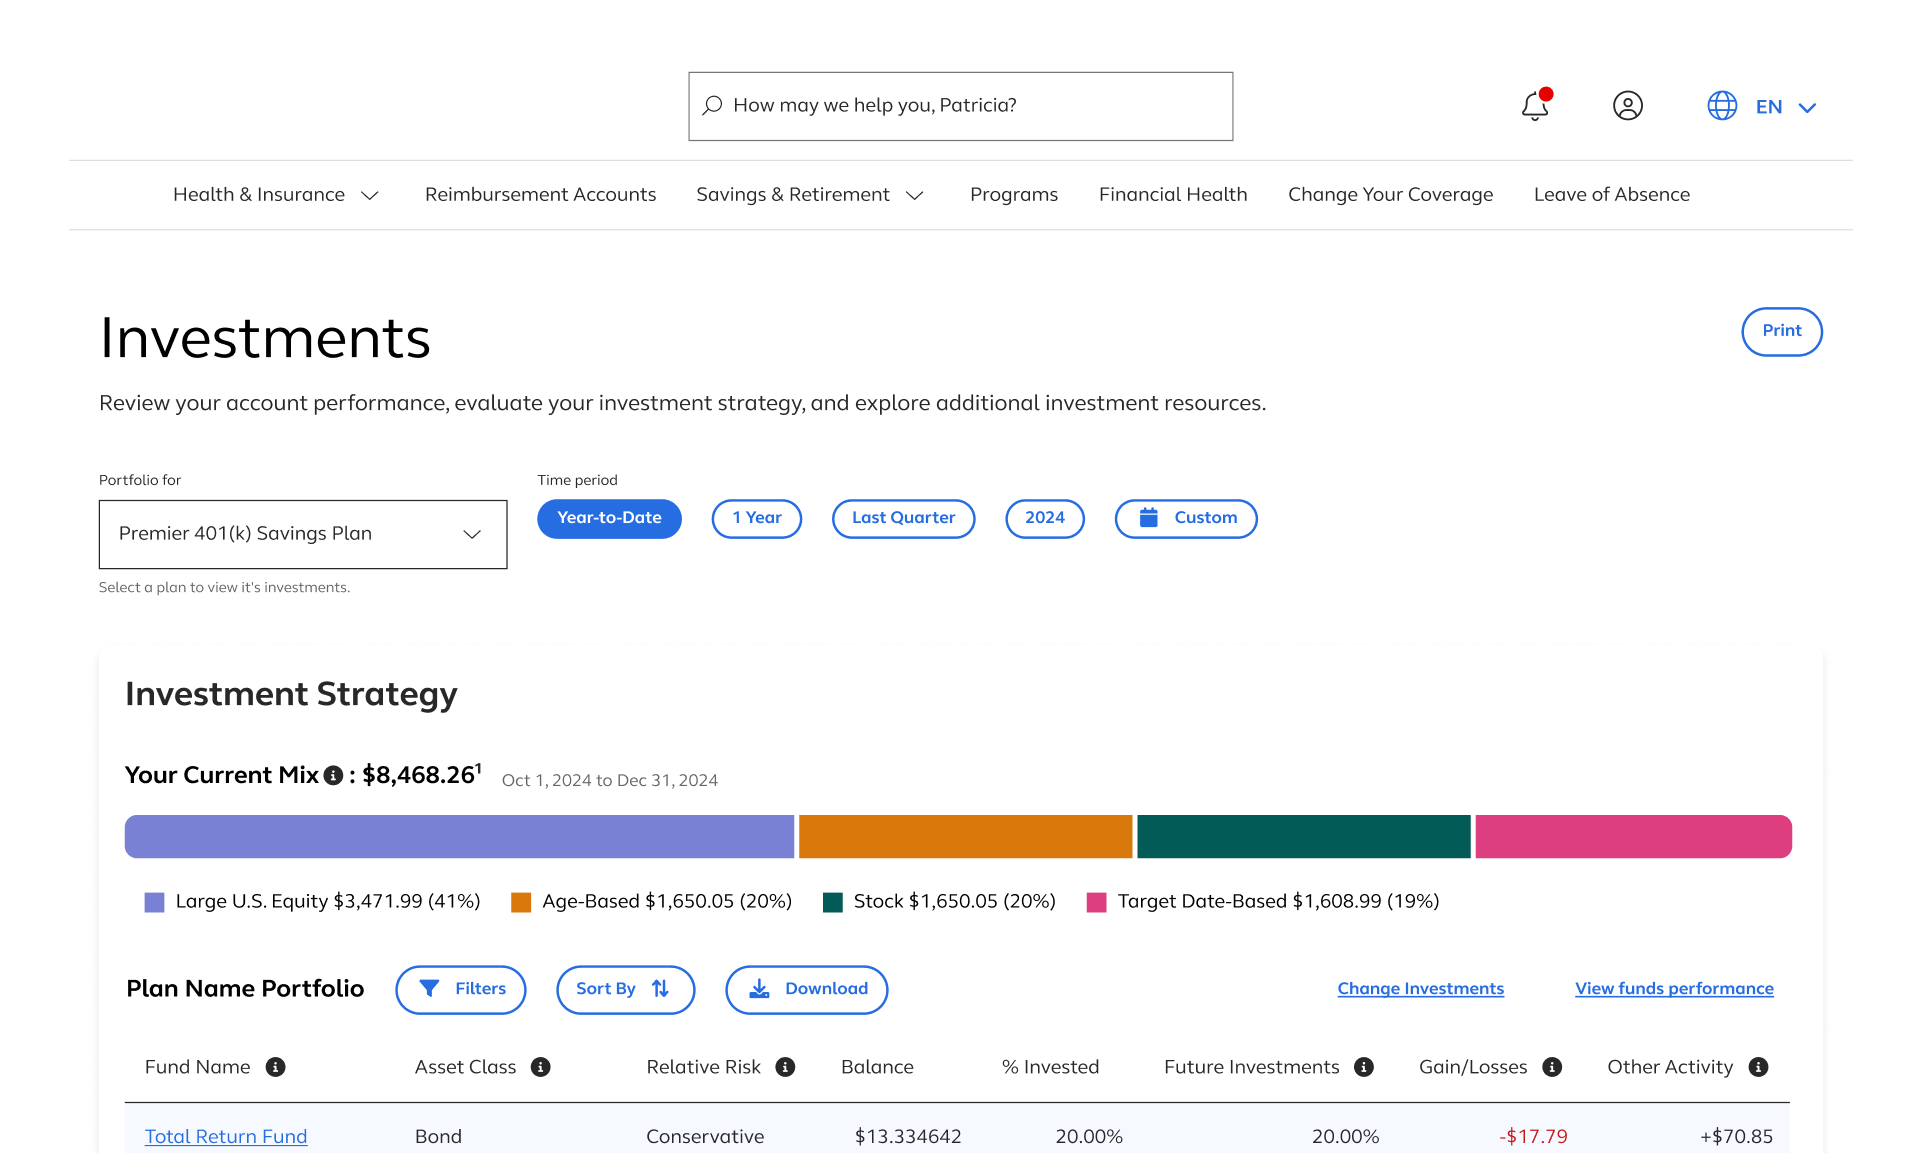
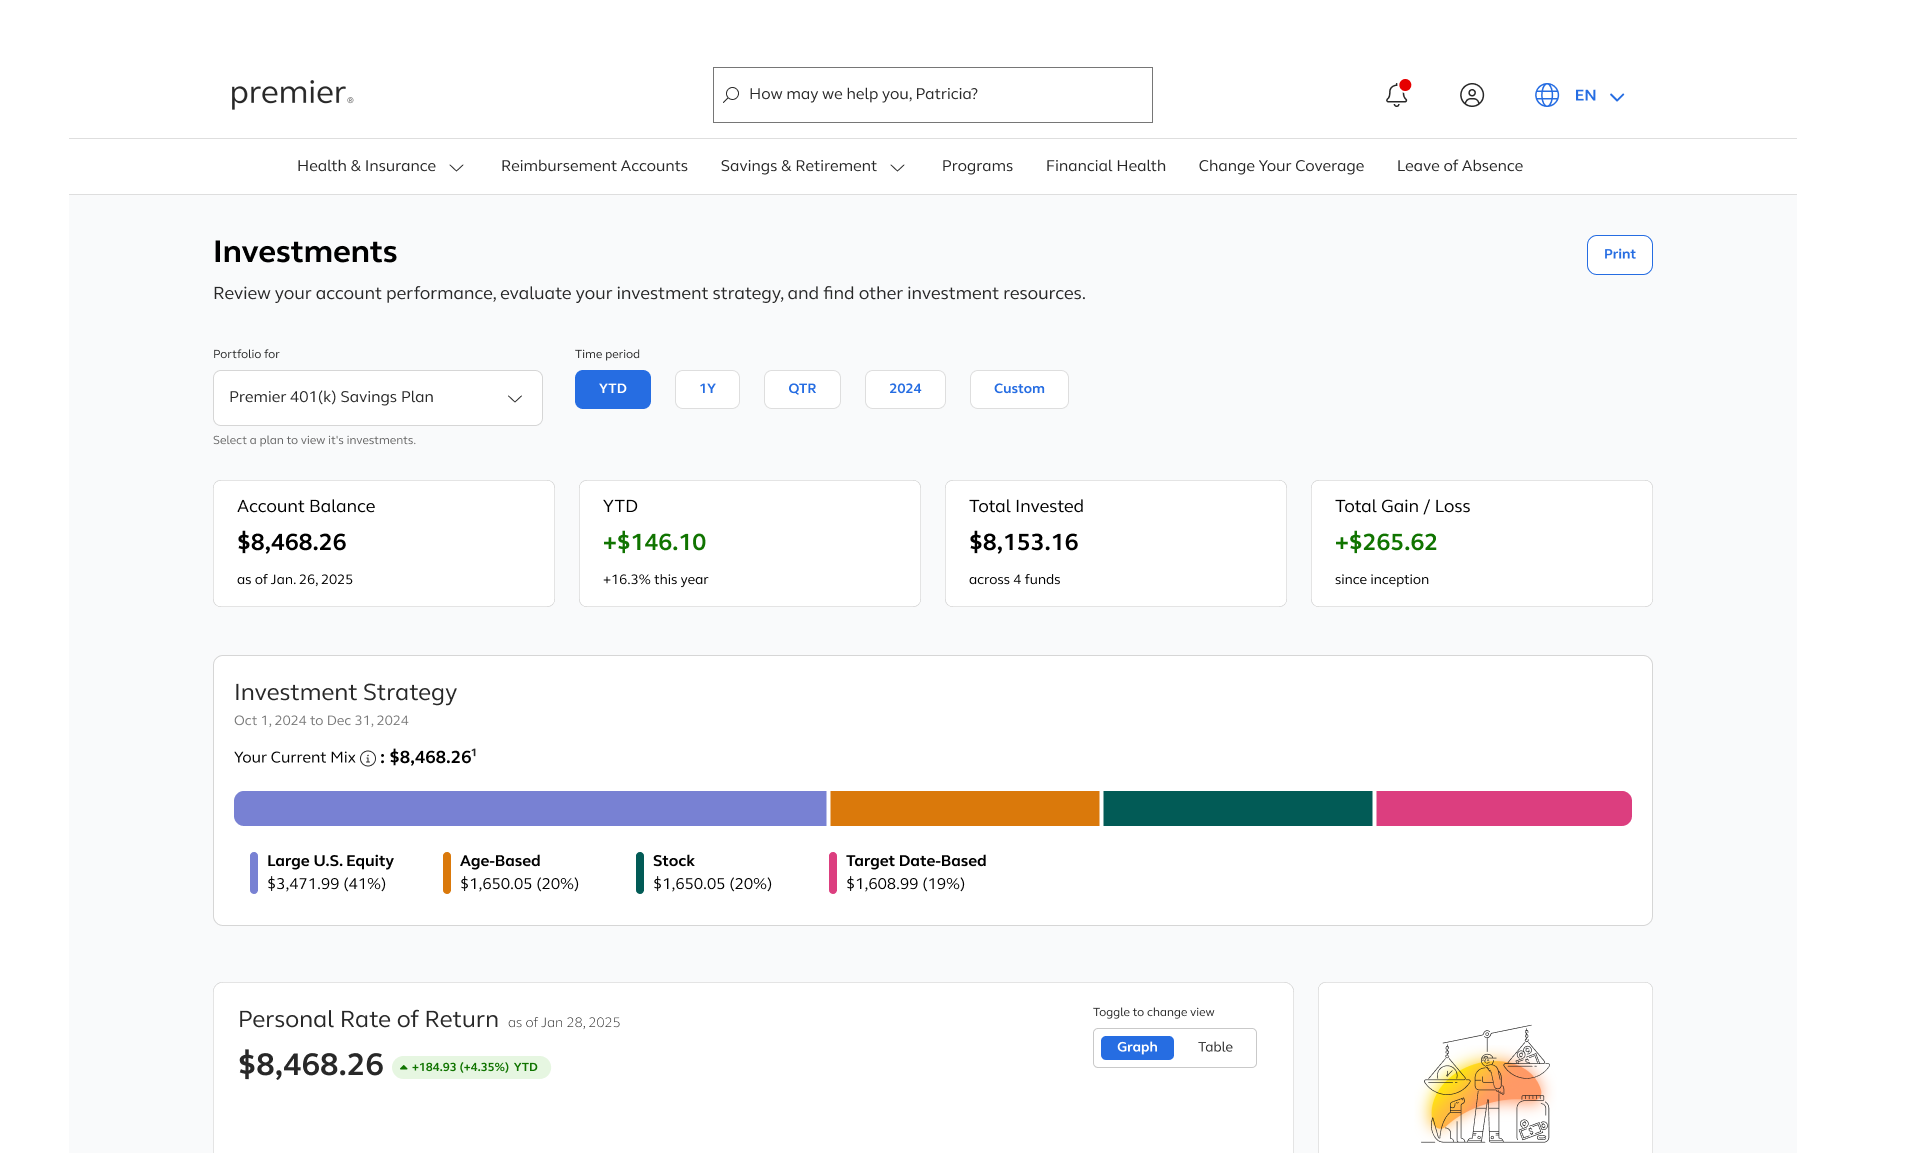
Updated images and link for Investments page

diff --git a/work/investments/index.html b/work/investments/index.html
@@ -303,7 +303,7 @@
                       <h3>demo</h3>
                     </div>
                     <div class="categoryctr-copy">
-                      <a href="https://www.figma.com/design/XkNRUQ1qYdk2ZSKJvot9N4/Investment-Landing-Pages-Dev-Handoff?node-id=20916-32283&t=rf8ET2IcwKJWqgLS-1"
+                      <a href="https://www.figma.com/proto/CChzDDzuMDXD1Qvw1BBlUm/Demo-Files?node-id=155-8868&viewport=-832%2C197%2C0.89&t=6Ouv1zvGLPTVxY8x-9&scaling=scale-down&content-scaling=fixed&page-id=155%3A6918&starting-point-node-id=155%3A8868&show-proto-sidebar=1"
                         rel="noopener"  target="_blank">Figma Prototype &nbsp;
                         <svg xmlns="http://www.w3.org/2000/svg" width="16" height="16" fill="currentColor"
                           class="bi bi-box-arrow-up-right" viewBox="0 0 16 16">
@@ -1231,8 +1231,7 @@
                 <div class="CaseStudyOutro-card">
                   <h2 class="CaseStudyOutro-heading">Thank you for reading!</h2>
                   <div class="CaseStudyOutro-actions">
-                    <a href="https://www.figma.com/design/XkNRUQ1qYdk2ZSKJvot9N4/Investment-Landing-Pages-Dev-Handoff?node-id=20916-32283&t=rf8ET2IcwKJWqgLS-1" class="Button Button--primary Button--lg" rel="noopener noreferrer" target="_blank">View
-                      Demo</a>
+                    <a href="https://www.figma.com/proto/CChzDDzuMDXD1Qvw1BBlUm/Demo-Files?node-id=155-8868&viewport=-832%2C197%2C0.89&t=6Ouv1zvGLPTVxY8x-9&scaling=scale-down&content-scaling=fixed&page-id=155%3A6918&starting-point-node-id=155%3A8868&show-proto-sidebar=1" class="Button Button--primary Button--lg" rel="noopener noreferrer" target="_blank">View Demo</a>
                     <a href="./../guidedhealthcare/index.html" class="Button Button--secondary Button--lg">Next Project</a>
                   </div>
                 </div>
